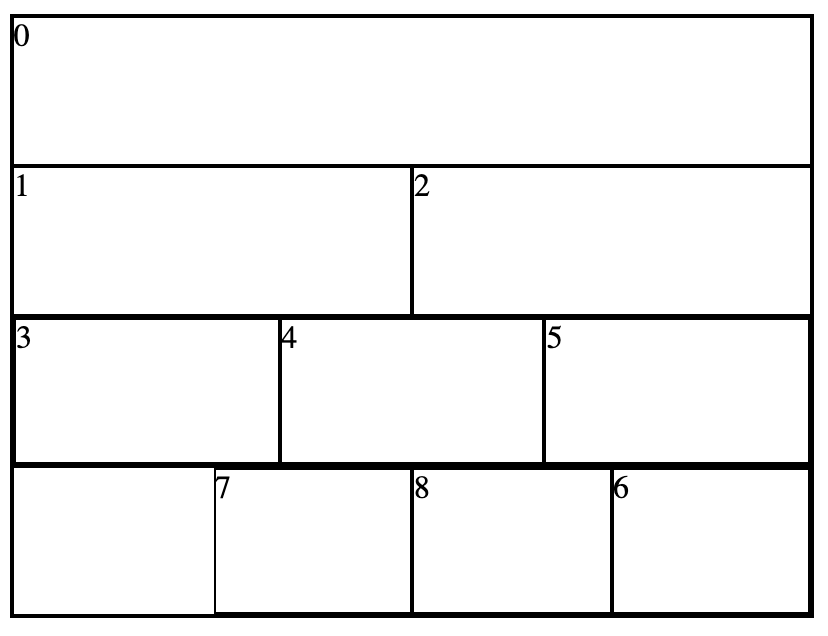
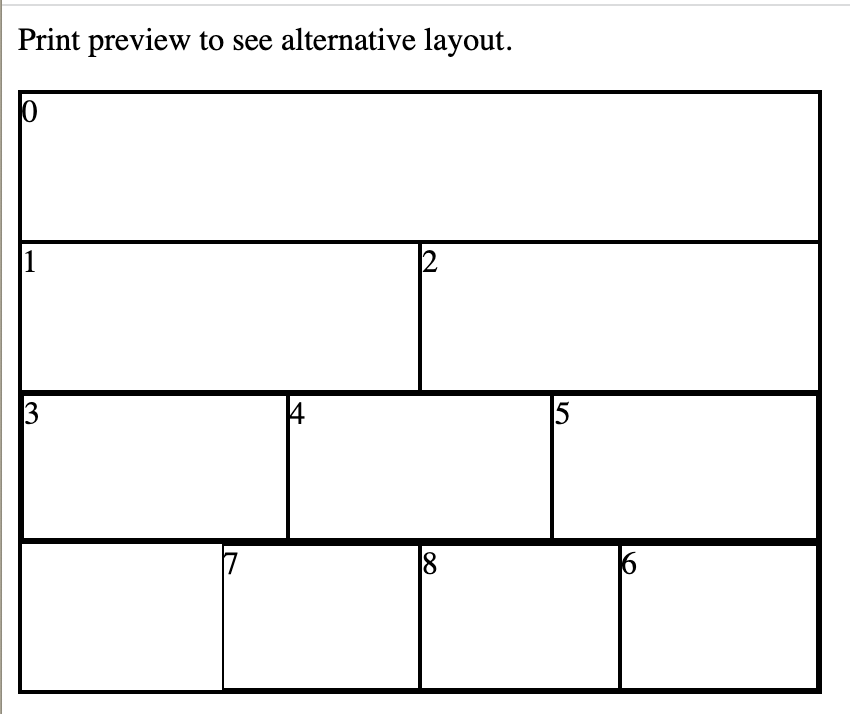
fix hyperlinks in README.md and index.html

Changed region(s): [[0.0, 0.0, 0.9964, 0.9858]]

diff --git a/media.html b/media.html
@@ -13,8 +13,14 @@
             width: 400px;
             height: 300px;
         }
+
+        @media print {
+            body>p {
+                display: none;
+            }
+        }
     </style>
-    <script src='//cdn.jsdelivr.net/gh/sparrowhawk-ea/layout-ea/dist/index.js'></script>
+    <script src='https://cdn.jsdelivr.net/npm/@eafmm/layout-ea/dist/index.js'></script>
     <script>
         // this would normally be in a separate file
         function doLayout() {
@@ -44,6 +50,7 @@
 </head>
 
 <body onload='doLayout()'>
+    <p>Print preview to see alternative layout.</p>
     <div id='root'>
         <div>0</div>
         <div>1</div>

diff --git a/index.html b/index.html
@@ -14,7 +14,7 @@
             height: 400px;
         }
     </style>
-    <script src='//cdn.jsdelivr.net/gh/sparrowhawk-ea/layout-ea/dist/index.js'></script>
+    <script src='https://cdn.jsdelivr.net/npm/@eafmm/layout-ea/dist/index.js'></script>
     <script>
         // this would normally be in a separate file
         function doLayout() {

diff --git a/README_Grid.md b/README_Grid.md
@@ -3,6 +3,10 @@ This layout manager lays out the immediate child HTML elements of the given HTML
 The number of columns and rows is configurable.
 The parent HTML element of each grid is given a class of **layout-ea-grid** which can be used as a CSS selector to further customize styles.
 
+[Demo Application](https://sparrowhawk-ea.github.io/layout-ea/)
+
+[Responsive Layout Demo Application](https://sparrowhawk-ea.github.io/layout-ea/media.html)
+
 ***
 # Getting Started
 ## Installation
@@ -27,8 +31,6 @@ LayoutEa.layout(document.body, {
 
 ## Example
 
-Feel free to copy the file below and play around with the layouts to see the results.
-
 <img src='docs/index.png' alt='index result' width=600/>
 
 ```html
@@ -48,7 +50,7 @@ Feel free to copy the file below and play around with the layouts to see the res
             height: 400px;
         }
     </style>
-    <script src='//cdn.jsdelivr.net/gh/sparrowhawk-ea/layout-ea/dist/index.js'></script>
+    <script src='https://cdn.jsdelivr.net/npm/@eafmm/layout-ea/dist/index.js'></script>
     <script>
         // this would normally be in a separate file
         function doLayout() {
@@ -151,8 +153,14 @@ Feel free to copy the file below and play around with the layouts to see the res
             width: 400px;
             height: 300px;
         }
+
+        @media print {
+            body>p {
+                display: none;
+            }
+        }
     </style>
-    <script src='//cdn.jsdelivr.net/gh/sparrowhawk-ea/layout-ea/dist/index.js'></script>
+    <script src='https://cdn.jsdelivr.net/npm/@eafmm/layout-ea/dist/index.js'></script>
     <script>
         // this would normally be in a separate file
         function doLayout() {
@@ -182,6 +190,7 @@ Feel free to copy the file below and play around with the layouts to see the res
 </head>
 
 <body onload='doLayout()'>
+    <p>Print preview to see alternative layout.</p>
     <div id='root'>
         <div>0</div>
         <div>1</div>
